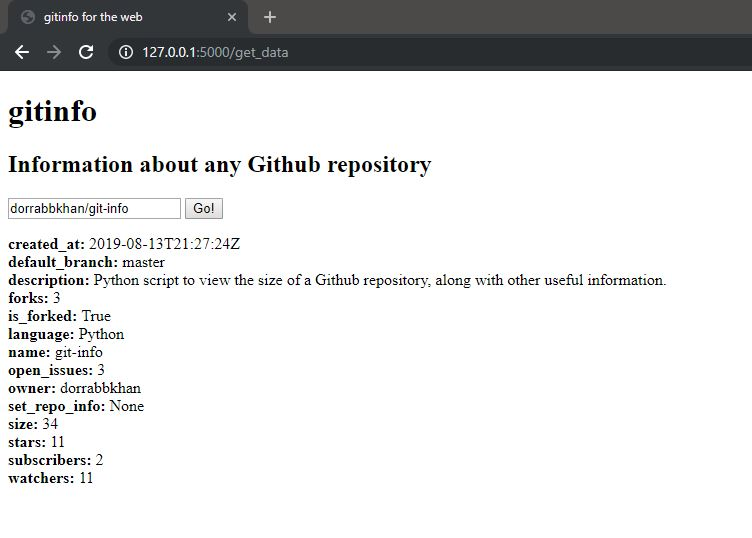
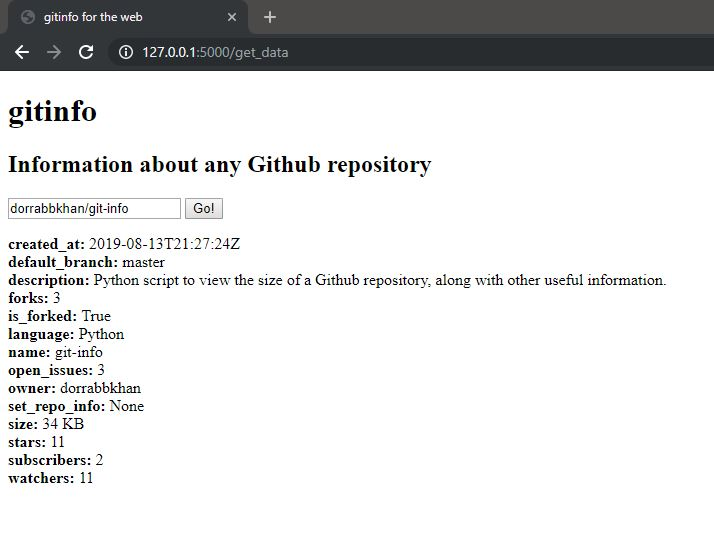
Added clause on web server to display size as KB to avoid confusion, updated web.jpg accordingly for README

diff --git a/templates/index.html b/templates/index.html
@@ -14,6 +14,9 @@
         {% if repo_data %}
             {% for datum in repo_data %}
                 <b>{{ datum["name"] }}: </b>{{ datum["info"] }}
+                {% if datum["name"] == "size" %}
+                    KB
+                {% endif %}
                 <br \>
             {% endfor %}
         {% endif %}
